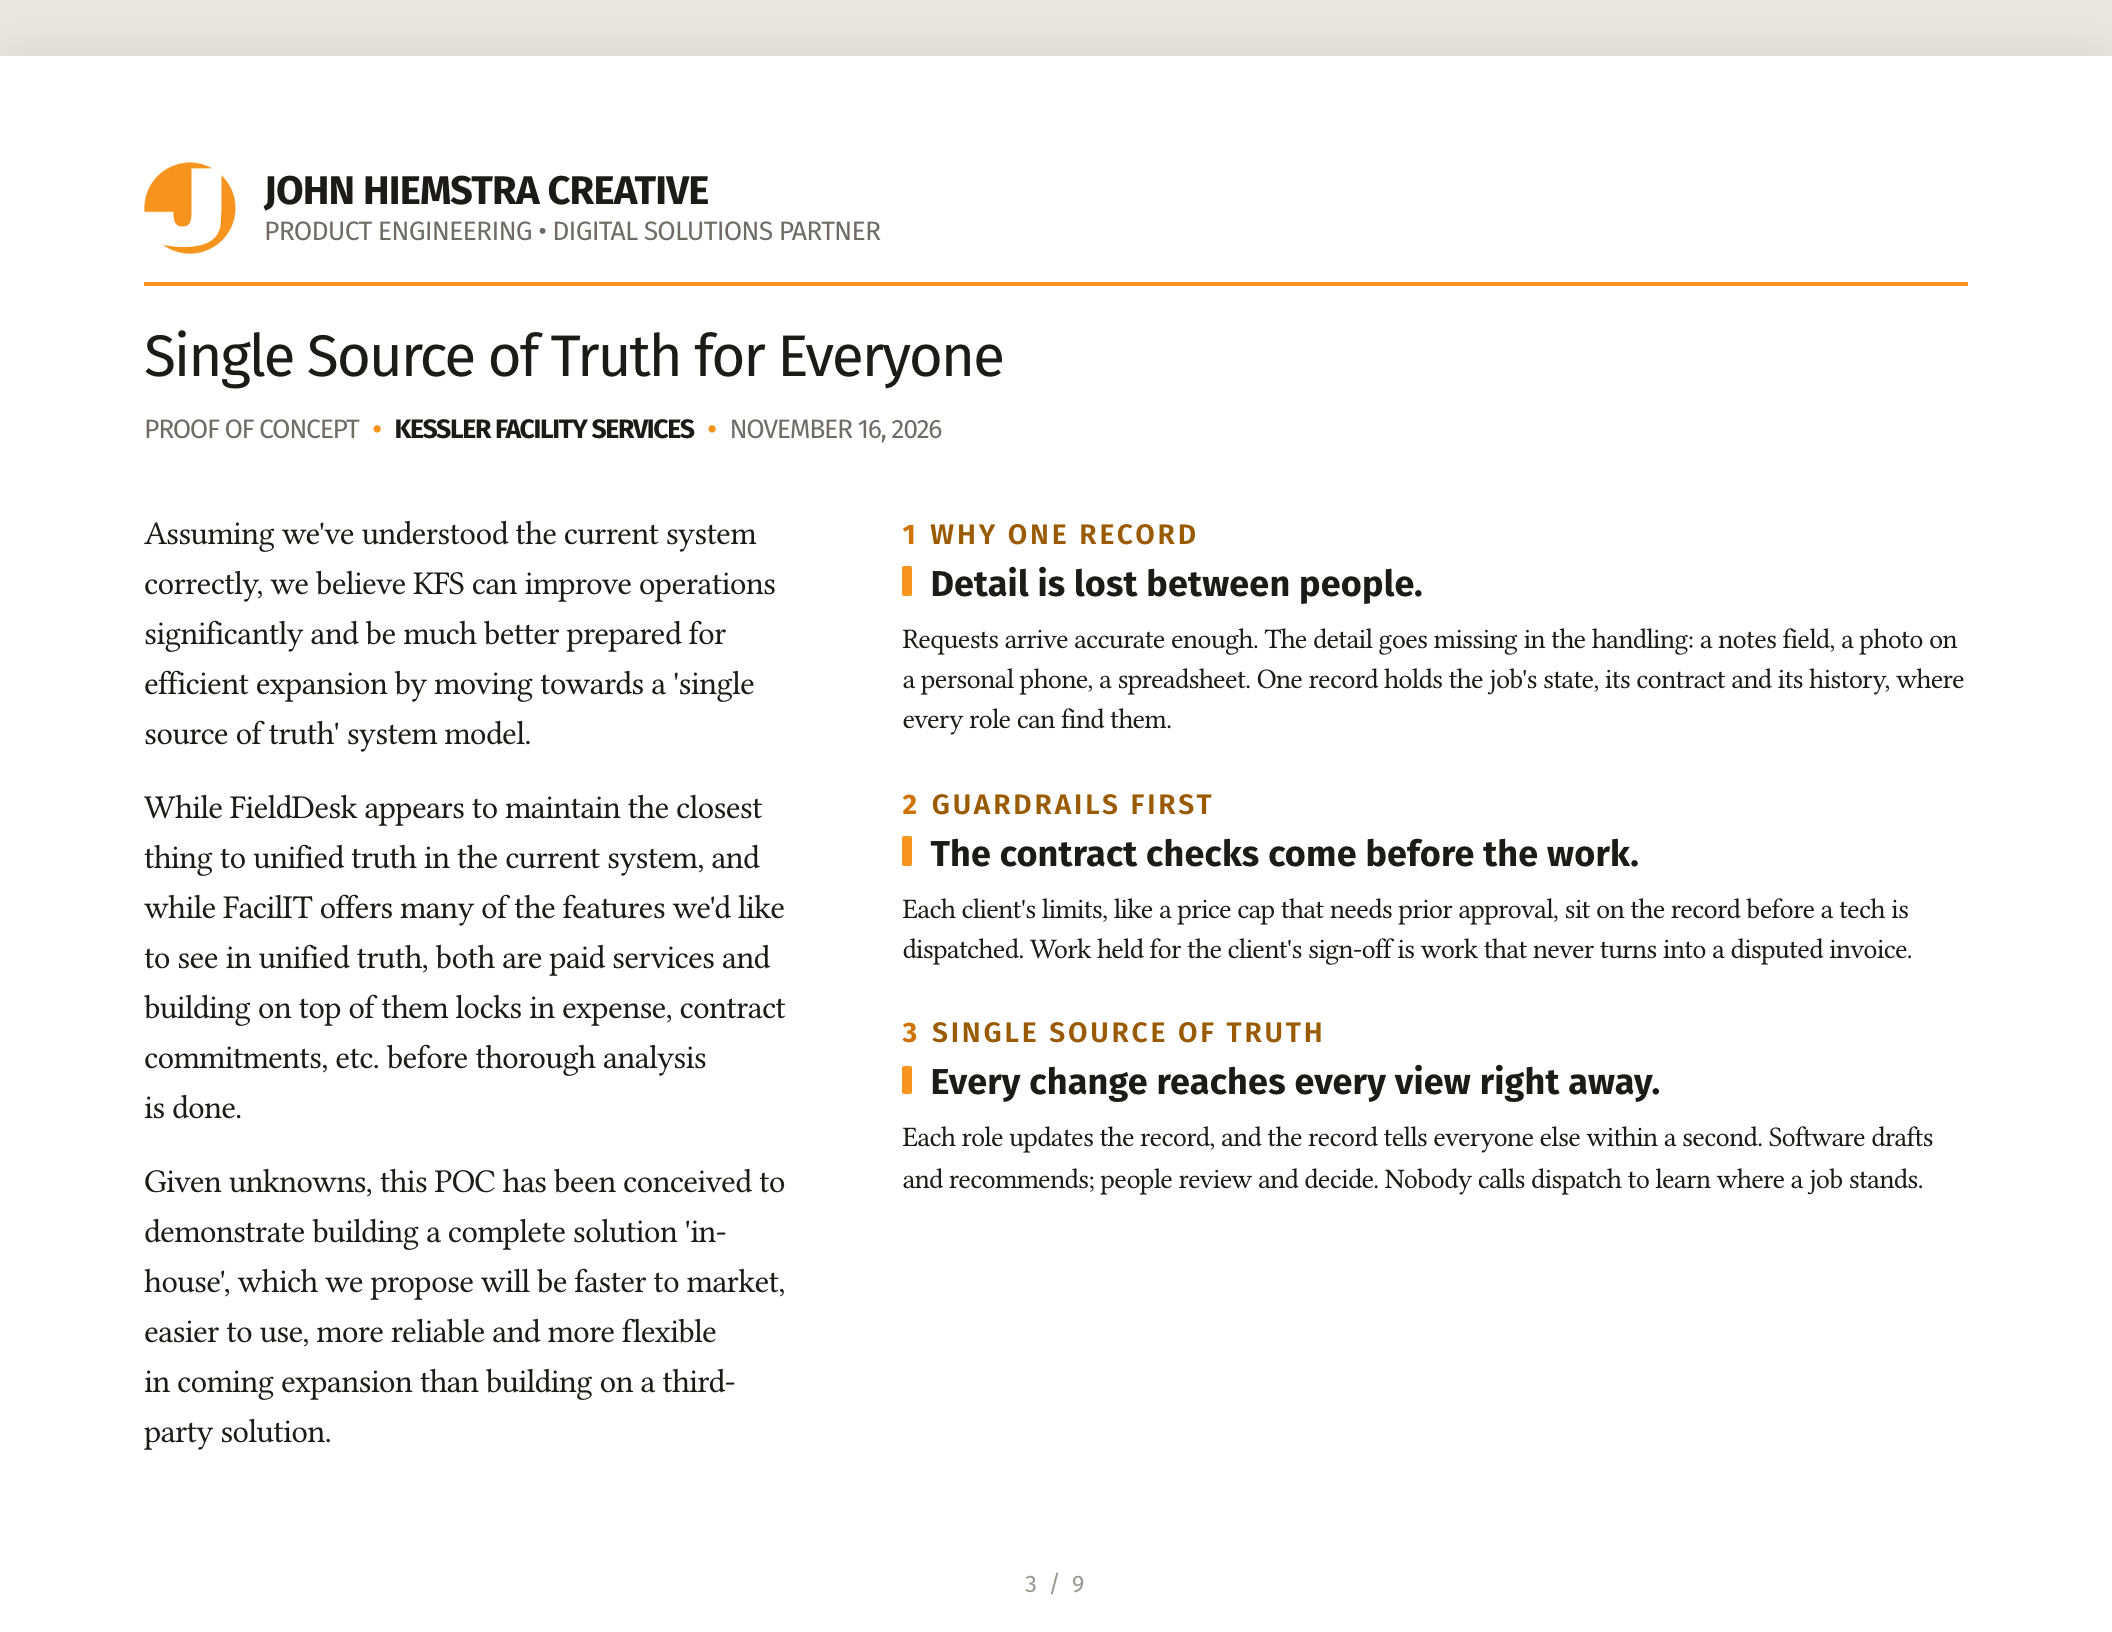
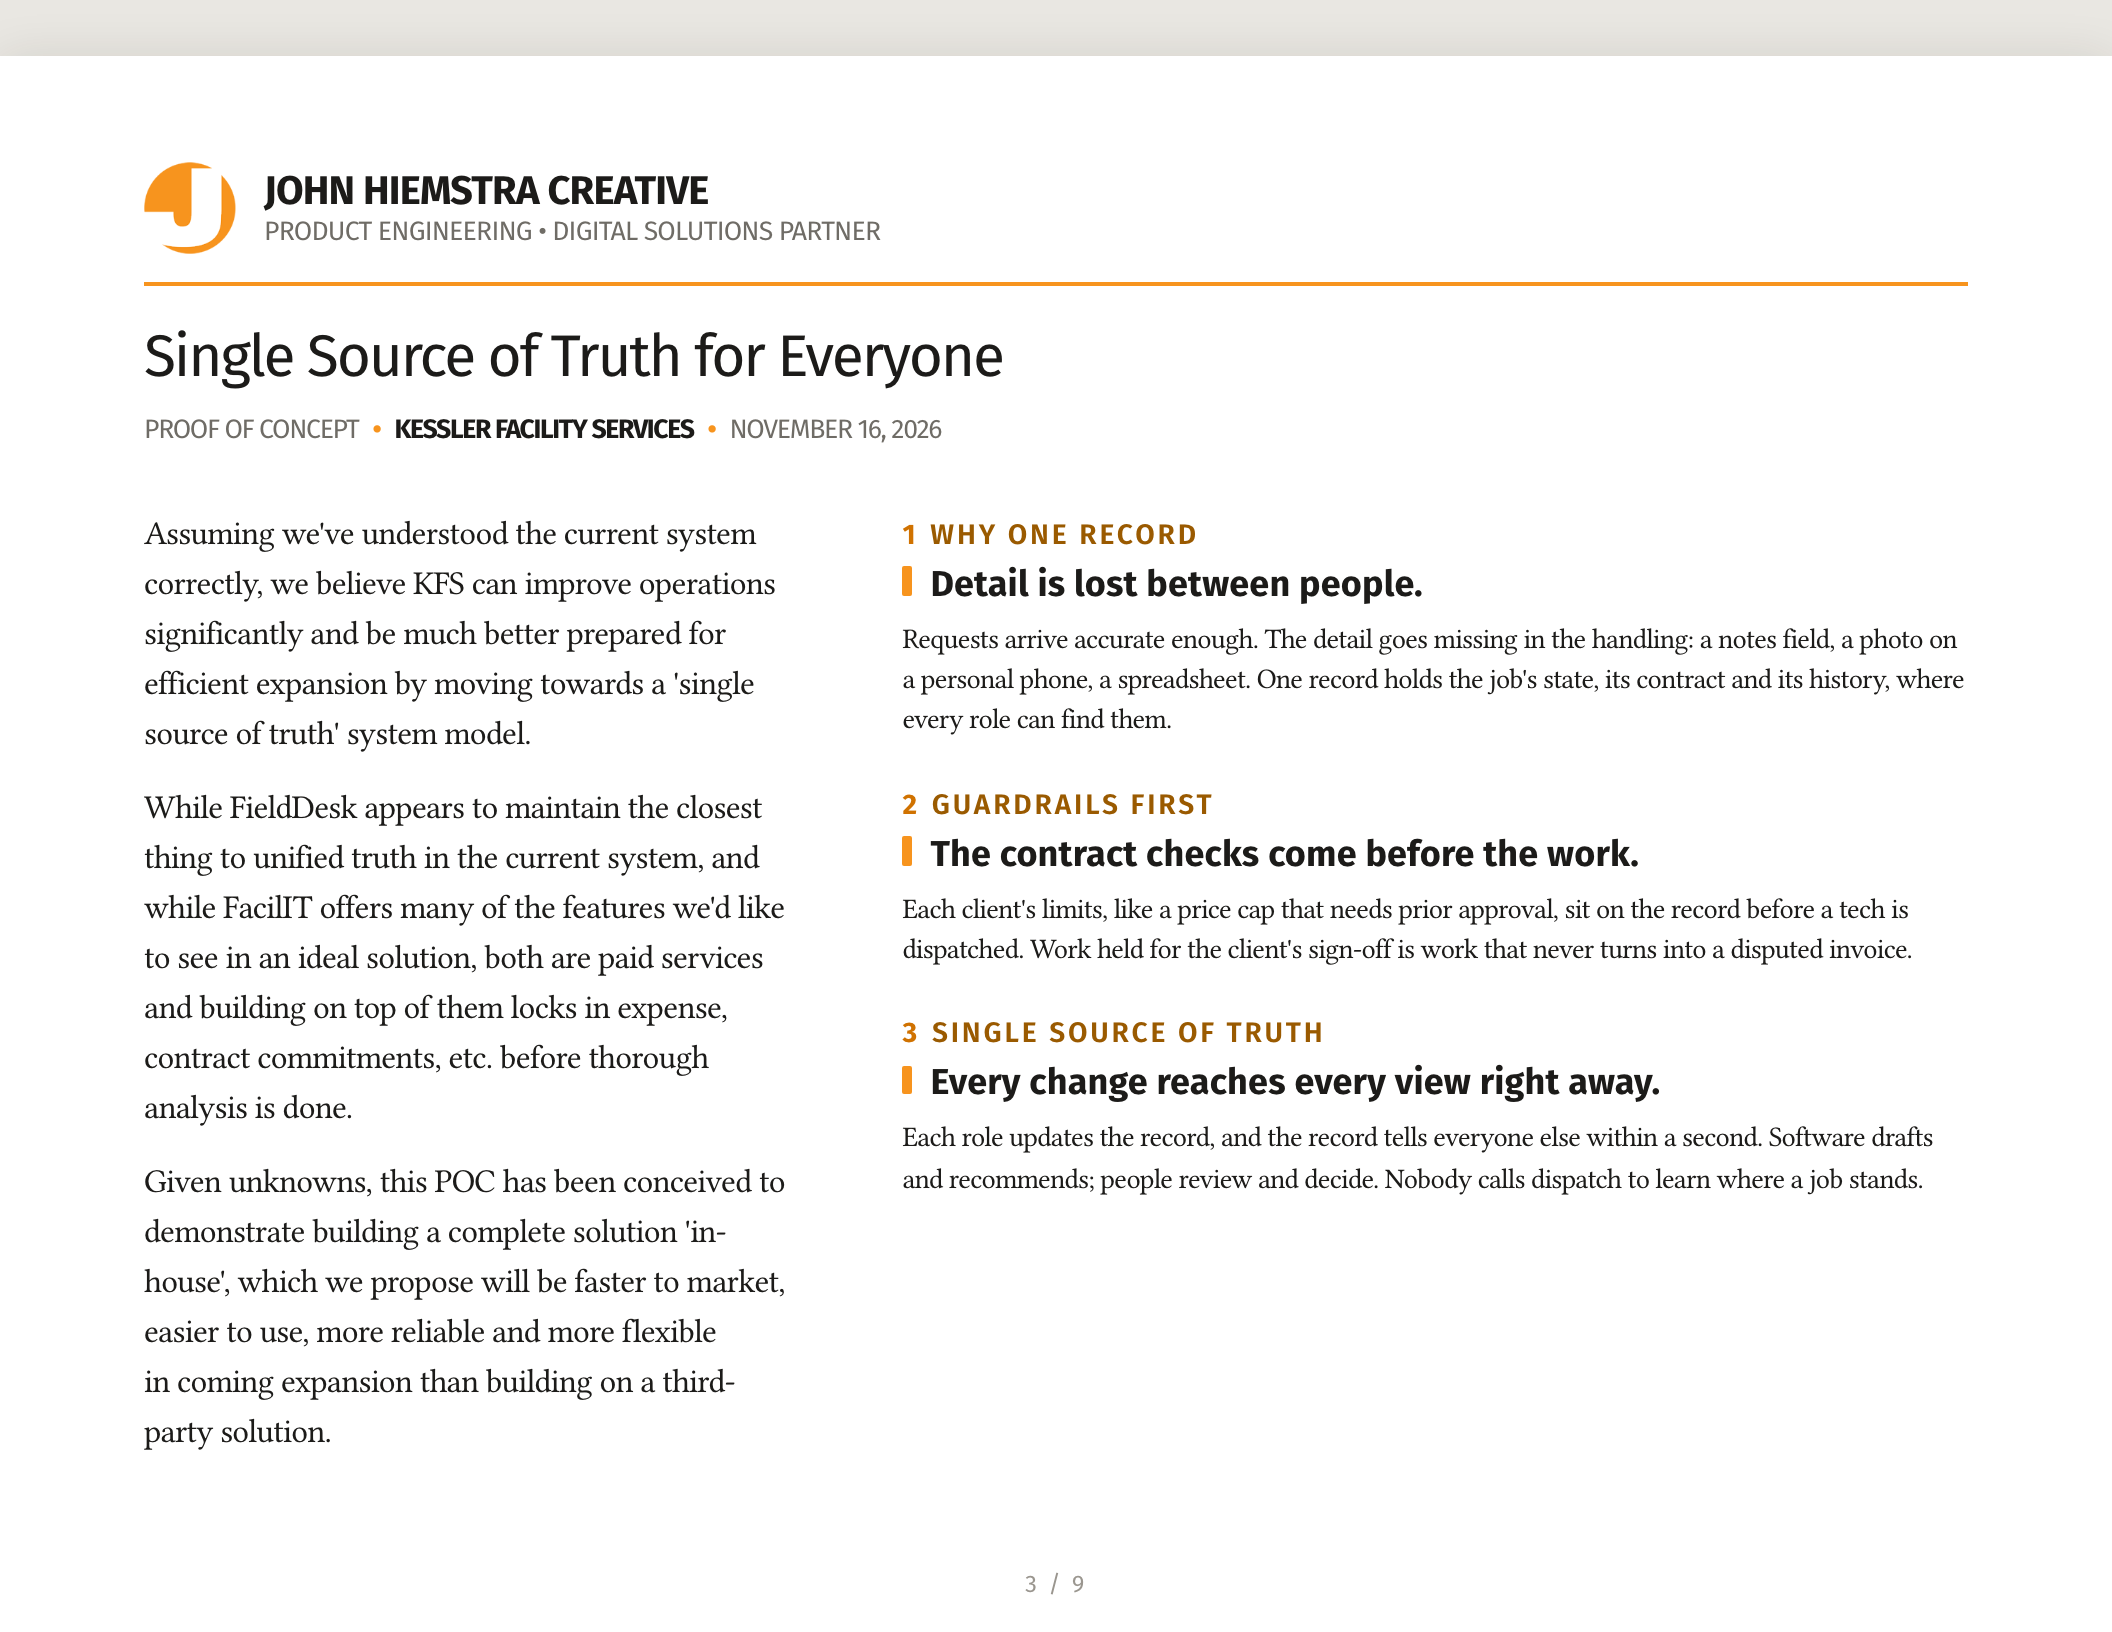
the submitted deck: John's last hand pass (pages 1, 3, 6); the PDF named and titled with its date

Changed region(s): [[0.0625, 0.5625, 0.375, 0.6875]]

diff --git a/docs/flow/final/page-1.html b/docs/flow/final/page-1.html
@@ -51,7 +51,7 @@
         <div class="sections">
           <div class="sec">
             <p class="k"><b>1</b>SYSTEM MAP</p>
-            <h2>Nine steps, one request at a time.</h2>
+            <h2>Nine steps for every request.</h2>
             <p>
               Page 2 documents intake, coordination, estimation, dispatch, onsite, close, billing, invoicing and
               collections to the best of our current understanding. Further deep dives required before moving beyond
@@ -62,9 +62,9 @@
             <p class="k"><b>2</b>OPPORTUNITIES</p>
             <h2>People carry the current system by hand.</h2>
             <p>
-              Page 6 captures 9 system hand-offs that are currently manual events, where given request data is re-keyed
-              multiple times across its own lifecycle. These hand-off points are our main opportunities for system
-              performance improvement and both time & money savings in immediate, short and long terms.
+              Page 6 captures manual system hand-offs, where given request data is re-keyed multiple times across its
+              own lifecycle. These data transfer points are our main opportunities for system performance improvement
+              and saving time/money in the immediate, short and long term.
             </p>
           </div>
           <!--          <div class="sec">-->

diff --git a/docs/flow/final/page-6.html b/docs/flow/final/page-6.html
@@ -118,7 +118,7 @@
             <td class="o">
               <b>Recommended tech at dispatch</b><span>Skill, license, distance and load, with the reasons shown.</span>
             </td>
-            <td class="i"><b>About 250 hours a year.</b> Dispatch keeps moving when its one person is out.</td>
+            <td class="i"><b>About 400 hours a year.</b> Dispatch keeps moving when its one person is out.</td>
           </tr>
           <tr>
             <td class="n">6</td>
@@ -136,13 +136,13 @@
               <b>Closed work pushed to billing</b><span>Accepted work lands in the billing queue on close.</span>
             </td>
             <td class="i">
-              <b>About 250 hours a year.</b> Days from close to invoice become hours, and the cash arrives sooner.
+              <b>About 400 hours a year.</b> Days from close to invoice become hours, and the cash arrives sooner.
             </td>
           </tr>
           <tr class="total">
             <td></td>
             <td class="lbl">Together</td>
-            <td class="num" style="text-align: left">About 4,750 hours a year</td>
+            <td class="num" style="text-align: left">About 5000 hours a year</td>
           </tr>
         </tbody>
       </table>

diff --git a/docs/flow/final/page-3.html b/docs/flow/final/page-3.html
@@ -40,8 +40,8 @@
         </p>
         <p class="dek">
           While FieldDesk appears to maintain the closest thing to unified truth in the current system, and while
-          FacilIT offers many of the features we'd like to see in unified truth, both are paid services and building on
-          top of them locks in expense, contract commitments, etc. before thorough analysis is done.
+          FacilIT offers many of the features we'd like to see in an ideal solution, both are paid services and building
+          on top of them locks in expense, contract commitments, etc. before thorough analysis is done.
         </p>
         <p class="dek">
           Given unknowns, this POC has been conceived to demonstrate building a complete solution 'in-house', which we

diff --git a/docs/flow/final/assemble.py b/docs/flow/final/assemble.py
@@ -24,7 +24,7 @@ from playwright.sync_api import sync_playwright  # noqa: E402
 from pypdf import PdfReader, PdfWriter  # noqa: E402
 
 HERE = Path(__file__).resolve().parent
-OUT = HERE.parent / "kessler-poc-final.pdf"
+OUT = HERE.parent / "Kessler-Facility-Services-proof-of-concept-2026-11-17.pdf"
 LOGINS = Path.home() / "jhc/secrets/kessler-poc/box-apps-demo-logins.env"   # the live box's logins
 FILL = r"""(pw) => { const w = document.createTreeWalker(document.body, NodeFilter.SHOW_TEXT); let n, left = 0;
   while ((n = w.nextNode())) n.nodeValue = n.nodeValue.replace(/\{\{password:([^}]+)\}\}/g, (m, e) => pw[e] ?? m);

diff --git a/docs/delivery/2026-11-16-email.md b/docs/delivery/2026-11-16-email.md
@@ -2,7 +2,7 @@
 
 Plan: `docs/plans/2026-11-16-final-presentation.md`, D1. John pastes it and sends it; no agent sends it.
 To: Neale, Ann-Marie
-Attach: `docs/flow/kessler-poc-final.pdf` (rename on attach: `Kessler-Facility-Services-proof-of-concept-2026-11-17.pdf`)
+Attach: `docs/flow/Kessler-Facility-Services-proof-of-concept-2026-11-17.pdf` (rename on attach: `Kessler-Facility-Services-proof-of-concept-2026-11-17.pdf`)
 Open before sending: the repo invites (pending: their GitHub usernames)
 
 ---
